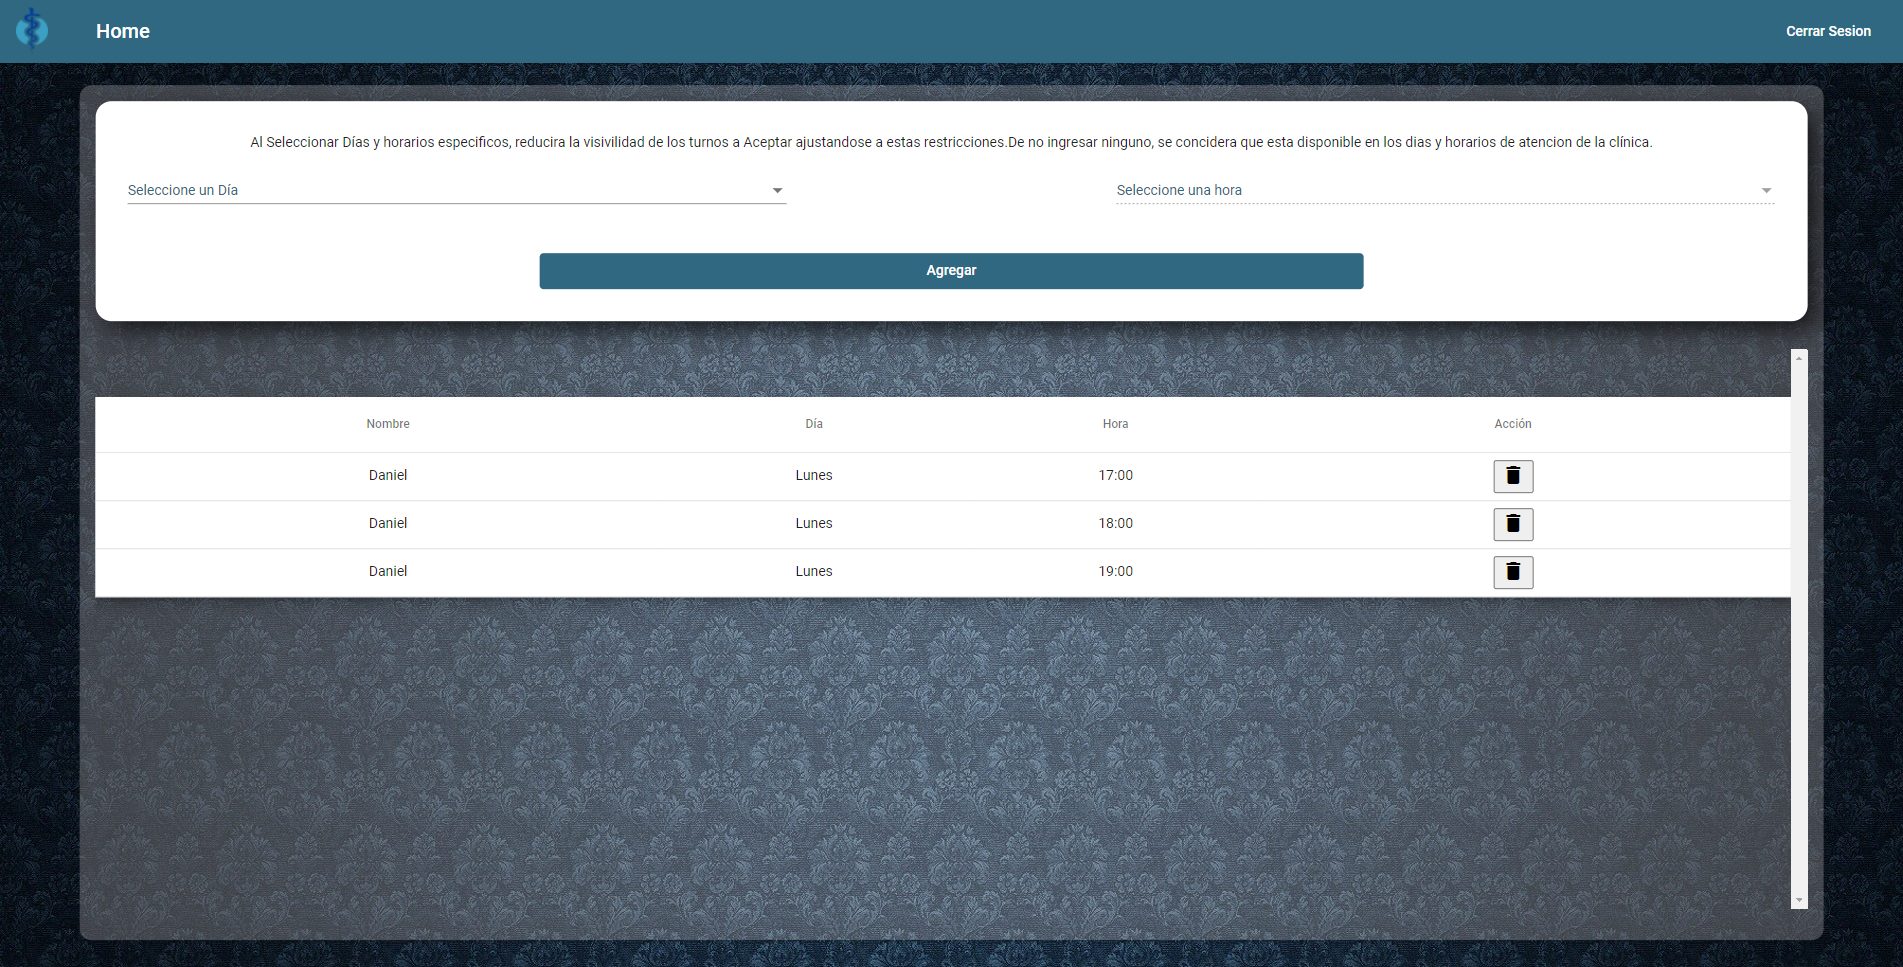
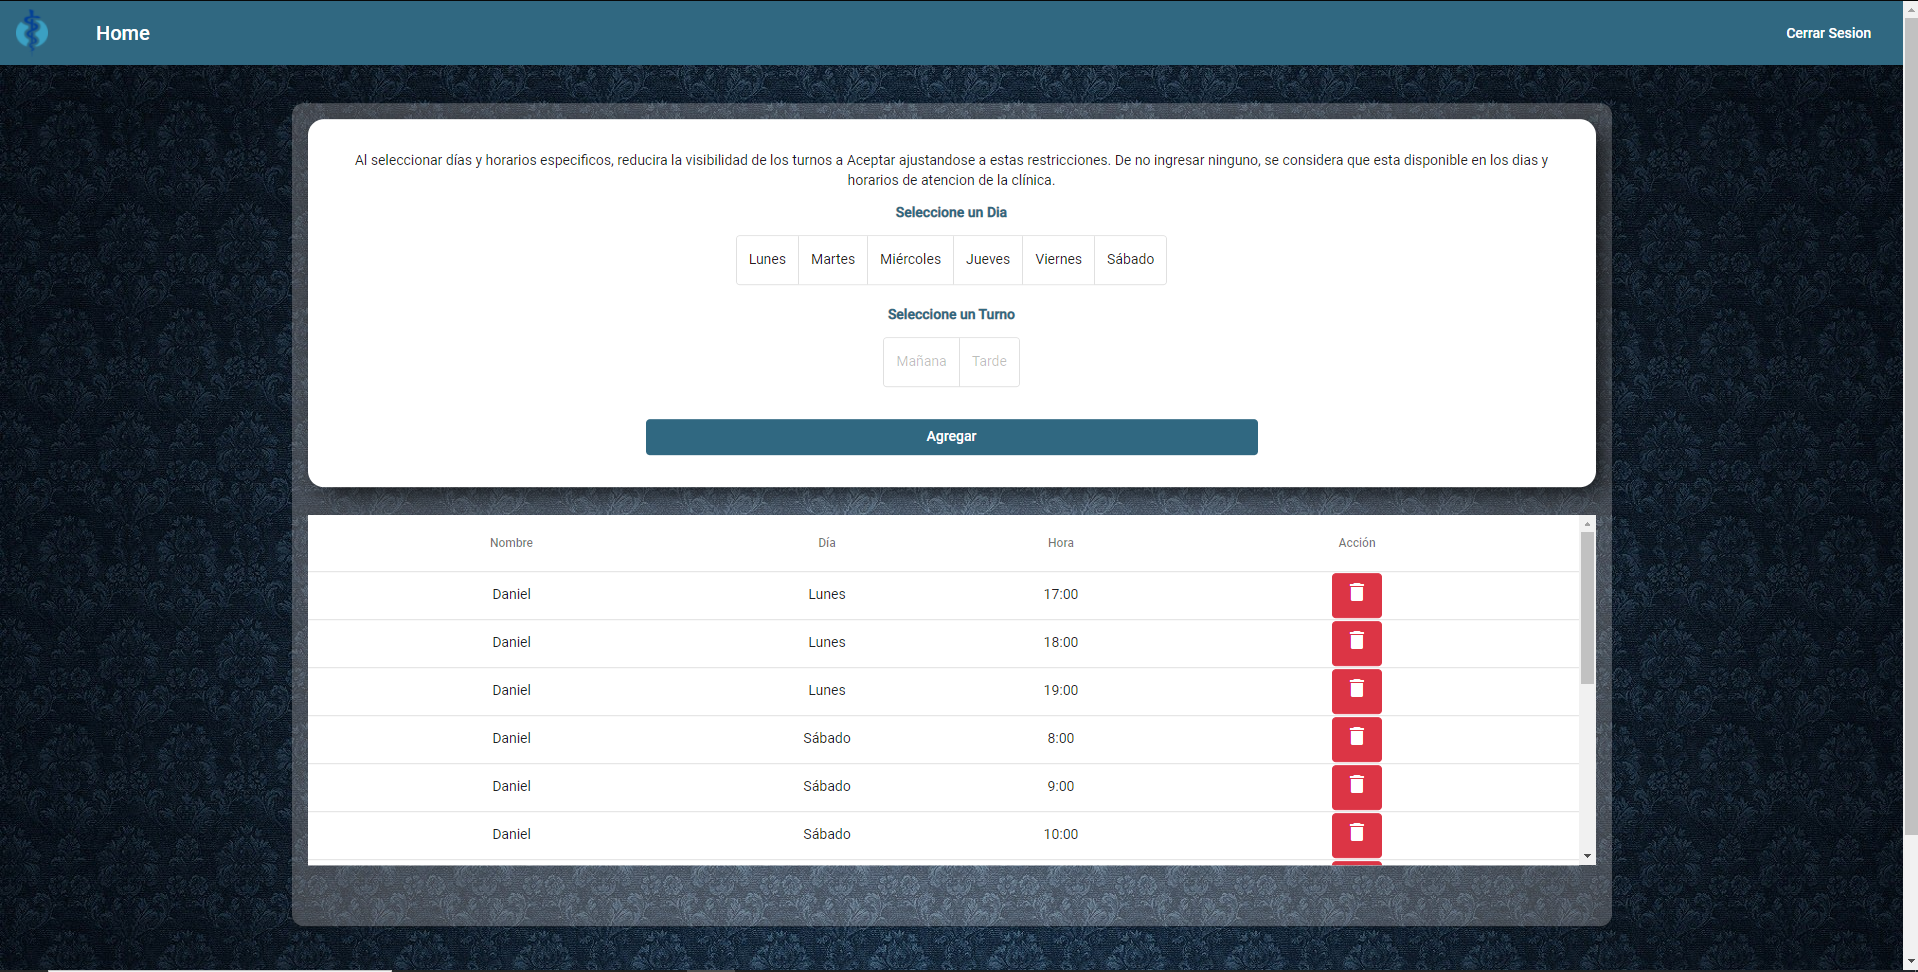
Fixes varios

diff --git a/src/app/components/horarios/horarios.component.html b/src/app/components/horarios/horarios.component.html
@@ -1,51 +1,42 @@
-<!-- <mat-form-field class="example-full-width" appearance="fill">
-             <mat-label>Elija un dia</mat-label>
-             <input matInput [matDatepickerFilter]="myFilter" [matDatepicker]="picker">
-             <mat-datepicker-toggle matSuffix [for]="picker"></mat-datepicker-toggle>
-             <mat-datepicker #picker></mat-datepicker>
-            </mat-form-field> -->
-
 <div class="contenedor">
   <mat-card class="container">
     <div class="horarios">
       <p>
-        Al Seleccionar Días y horarios especificos, reducira la visivilidad de
-        los turnos a Aceptar ajustandose a estas restricciones.De no ingresar
-        ninguno, se concidera que esta disponible en los dias y horarios de
+        Al seleccionar días y horarios especificos, reducira la visibilidad de
+        los turnos a Aceptar ajustandose a estas restricciones. De no ingresar
+        ninguno, se considera que esta disponible en los dias y horarios de
         atencion de la clínica.
       </p>
-      <div class="select">
-        <mat-form-field style="width: 40%" class="full-width-input">
-          <mat-label style="color: #306881">Seleccione un Día</mat-label>
-          <mat-select name="tipo" [(ngModel)]="dia">
-            <mat-option
-              (click)="sabado()"
-              *ngFor="let item of dias"
-              value="{{ item }}"
-              >{{ item }}</mat-option
-            >
-          </mat-select>
-        </mat-form-field>
-        <mat-form-field style="width: 40%" class="full-width-input">
-          <mat-label style="color: #306881">Seleccione una hora</mat-label>
-          <mat-select
-            [disabled]="dia == undefined"
-            name="tipo"
-            [(ngModel)]="hora"
-          >
-            <mat-option *ngFor="let item of horarios" value="{{ item }}">{{
-              item
-            }}</mat-option>
-          </mat-select>
-        </mat-form-field>
+      <p style="color: #306881; font-weight: 600;">Seleccione un Dia</p>
+      <div>
+        <mat-button-toggle-group name="fontStyle" aria-label="Font Style" [(ngModel)]="dia">
+          <mat-button-toggle value="Lunes" (click)="sabado()">Lunes</mat-button-toggle>
+          <mat-button-toggle value="Martes" (click)="sabado()">Martes</mat-button-toggle>
+          <mat-button-toggle value="Miércoles" (click)="sabado()">Miércoles</mat-button-toggle>
+          <mat-button-toggle value="Jueves" (click)="sabado()">Jueves</mat-button-toggle>
+          <mat-button-toggle value="Viernes" (click)="sabado()">Viernes</mat-button-toggle>
+          <mat-button-toggle value="Sábado" (click)="sabado()">Sábado</mat-button-toggle>
+        </mat-button-toggle-group>
+      </div>
+      <br>
+      <div *ngIf="this.dia != 'Sábado'">
+        <p style="color: #306881; font-weight: 600;">Seleccione un Turno</p>
+        <mat-button-toggle-group name="fontStyle" aria-label="Font Style" [(ngModel)]="turno" [disabled]="dia == undefined">
+          <mat-button-toggle value="Mañana">Mañana</mat-button-toggle>
+          <mat-button-toggle value="Tarde">Tarde</mat-button-toggle>
+        </mat-button-toggle-group>
+      </div>
+      <div *ngIf="this.dia == 'Sábado'">
+        <p style="color: #306881; font-weight: 600;">Seleccione un Turno</p>
+        <mat-button-toggle-group name="fontStyle" aria-label="Font Style" [(ngModel)]="turno" [disabled]="dia == undefined">
+          <mat-button-toggle value="TurnoSabado">Turno Sabado</mat-button-toggle>
+        </mat-button-toggle-group>
       </div>
       <button
       mat-button
-    
         style="margin-top: 2rem; background-color: #306881;color: white; width: 50%;"
         class="btn btn-success btn-block"
-        (click)="atencion()"
-      >
+        (click)="atencion()">
         Agregar
       </button>
     </div>
@@ -53,12 +44,9 @@
       <table
       mat-table
       [dataSource]="profesional.atencion"
-      class="mat-elevation-z8"
+      style="margin-top: auto;"
     >
-      <!--- Note that these columns can be defined in any order.
-                The actual rendered columns are set as a property on the row definition" -->
-
-      <!-- Position Column -->
+      
       <ng-container matColumnDef="Nombre">
         <th mat-header-cell *matHeaderCellDef style="text-align: center;">Nombre</th>
         <td mat-cell *matCellDef="let element">{{ profesional.nombre }}</td>

diff --git a/src/app/components/horarios/horarios.component.ts b/src/app/components/horarios/horarios.component.ts
@@ -20,6 +20,7 @@ export class HorariosComponent implements OnInit {
   dia:any;
   hora:any;
   profesional:any = new Profesional();
+  turno:any;
   displayedColumns: string[] = ['Nombre', 'Día', 'Hora','Acción'];
   ngOnInit(): void {
   
@@ -27,12 +28,12 @@ export class HorariosComponent implements OnInit {
     this.auth.getUserUid().then(res =>{
       uid = res.toString();
       this.data.getUserByUid(uid)
-         .subscribe(res => {
-           this.profesional = res;
-         })
+        .subscribe(res => {
+          this.profesional = res;
+        })
     }).catch(res =>{
-     uid = res.toString();
-     console.log("Sin Usuario");
+    uid = res.toString();
+    console.log("Sin Usuario");
     });
   }
 
@@ -43,11 +44,10 @@ export class HorariosComponent implements OnInit {
   }
   setHorarios(inicio:number,final:number)
   {
-     this.horarios = [];
-     for (let index = inicio; index < final; index++) {
-       
-       let time = index + ":" + "00";
-       this.horarios.push(time);
+    this.horarios = [];
+    for (let index = inicio; index < final; index++) {
+      let time = index + ":" + "00";
+      this.horarios.push(time);
     } 
 
     console.info(this.horarios);
@@ -62,19 +62,46 @@ export class HorariosComponent implements OnInit {
     }
     else
     {
-      this.setHorarios(8,20);
+      this.setHorarios(8, 20);
 
     }
   }
 
   atencion()
   { 
-
-     this.profesional.atencion.push({dia:this.dia,hora:this.hora});
-
-
+    if(this.dia != "Sábado")
+    {
+      if(this.turno == "Tarde")
+      {
+        this.profesional.atencion.push({dia:this.dia,hora:"14:00"});
+        this.profesional.atencion.push({dia:this.dia,hora:"15:00"});
+        this.profesional.atencion.push({dia:this.dia,hora:"16:00"});
+        this.profesional.atencion.push({dia:this.dia,hora:"17:00"});
+        this.profesional.atencion.push({dia:this.dia,hora:"18:00"});
+        this.profesional.atencion.push({dia:this.dia,hora:"19:00"});
+      }
+      else
+      {
+        this.profesional.atencion.push({dia:this.dia,hora:"8:00"});
+        this.profesional.atencion.push({dia:this.dia,hora:"9:00"});
+        this.profesional.atencion.push({dia:this.dia,hora:"10:00"});
+        this.profesional.atencion.push({dia:this.dia,hora:"11:00"});
+        this.profesional.atencion.push({dia:this.dia,hora:"12:00"});
+        this.profesional.atencion.push({dia:this.dia,hora:"13:00"});
+      }
+    }
+    else
+    {
+      this.profesional.atencion.push({dia:this.dia,hora:"8:00"});
+      this.profesional.atencion.push({dia:this.dia,hora:"9:00"});
+      this.profesional.atencion.push({dia:this.dia,hora:"10:00"});
+      this.profesional.atencion.push({dia:this.dia,hora:"11:00"});
+      this.profesional.atencion.push({dia:this.dia,hora:"12:00"});
+      this.profesional.atencion.push({dia:this.dia,hora:"13:00"});
+    }
+    
     this.auth.updateHorario(this.profesional).then(res =>{
-       this.toast.success("Día y horario guardado con éxito");
+    this.toast.success("Día y horario guardado con éxito");
     }).catch(error =>{
       this.toast.error(error,"Error");
     });
@@ -85,22 +112,18 @@ export class HorariosComponent implements OnInit {
   eliminar(item)
   { 
    // console.log(item);
-     let aux:Array<any> = new Array();
-     let nuev:Array<any> = new Array();
+    let aux:Array<any> = new Array();
+    let nuev:Array<any> = new Array();
 
-     aux.push(this.profesional.atencion);
+    aux.push(this.profesional.atencion);
     
-     aux[0].splice(aux[0].indexOf(item),1);
-     
-     this.profesional.atencion = aux[0];
-     this.auth.updateHorario(this.profesional).then(res =>{
+    aux[0].splice(aux[0].indexOf(item),1);
+    
+    this.profesional.atencion = aux[0];
+    this.auth.updateHorario(this.profesional).then(res =>{
       this.toast.success("Registro Eliminado con éxito");
-   }).catch(error =>{
-     this.toast.error(error,"Error");
-   });
-
-
-    
+  }).catch(error =>{
+    this.toast.error(error,"Error");
+  });
   }
-
 }

diff --git a/src/app/app.module.ts b/src/app/app.module.ts
@@ -70,7 +70,7 @@ import { FormsModule, ReactiveFormsModule } from '@angular/forms';
 import { VerificacionCuentaComponent } from './components/verificacion-cuenta/verificacion-cuenta.component';
 import * as firebase from 'firebase';
 import { ProfesionalHoraComponent } from './components/profesional-hora/profesional-hora.component';
-
+import {MatButtonToggleModule} from '@angular/material/button-toggle';
 @NgModule({
   declarations: [
     AppComponent,
@@ -147,7 +147,8 @@ import { ProfesionalHoraComponent } from './components/profesional-hora/profesio
     RecaptchaModule,
     BrowserModule,
     FormsModule,
-    ReactiveFormsModule
+    ReactiveFormsModule,
+    MatButtonToggleModule
   ],
   providers: [
     AngularFireAuth,

diff --git a/src/app/components/sacar-turno/sacar-turno.component.ts b/src/app/components/sacar-turno/sacar-turno.component.ts
@@ -203,11 +203,7 @@ export class SacarTurnoComponent implements OnInit {
         { 
           this.turnosDisponibles.push({fecha:fecha,hora:hora,numero:num,nombre:dia,mes:mes+1});
         }
-      })
-      
-
-    //this.turnosDisponibles =  
-     
+      })  
   }
 
   OrdenarLista()
@@ -256,11 +252,6 @@ export class SacarTurnoComponent implements OnInit {
         fecha.setDate(fecha.getDate() - dif);
         
       }
-      else
-      {
-        
-      }
-      
     }
     if(dif <1)
     {

diff --git a/src/app/components/horarios/horarios.component.css b/src/app/components/horarios/horarios.component.css
@@ -52,7 +52,7 @@ table {
 .tableOverflow{
     margin-top: 2em;
     overflow-y: scroll;
-    height: 40em;
+    height: 25em;
 }
 
 .container {
